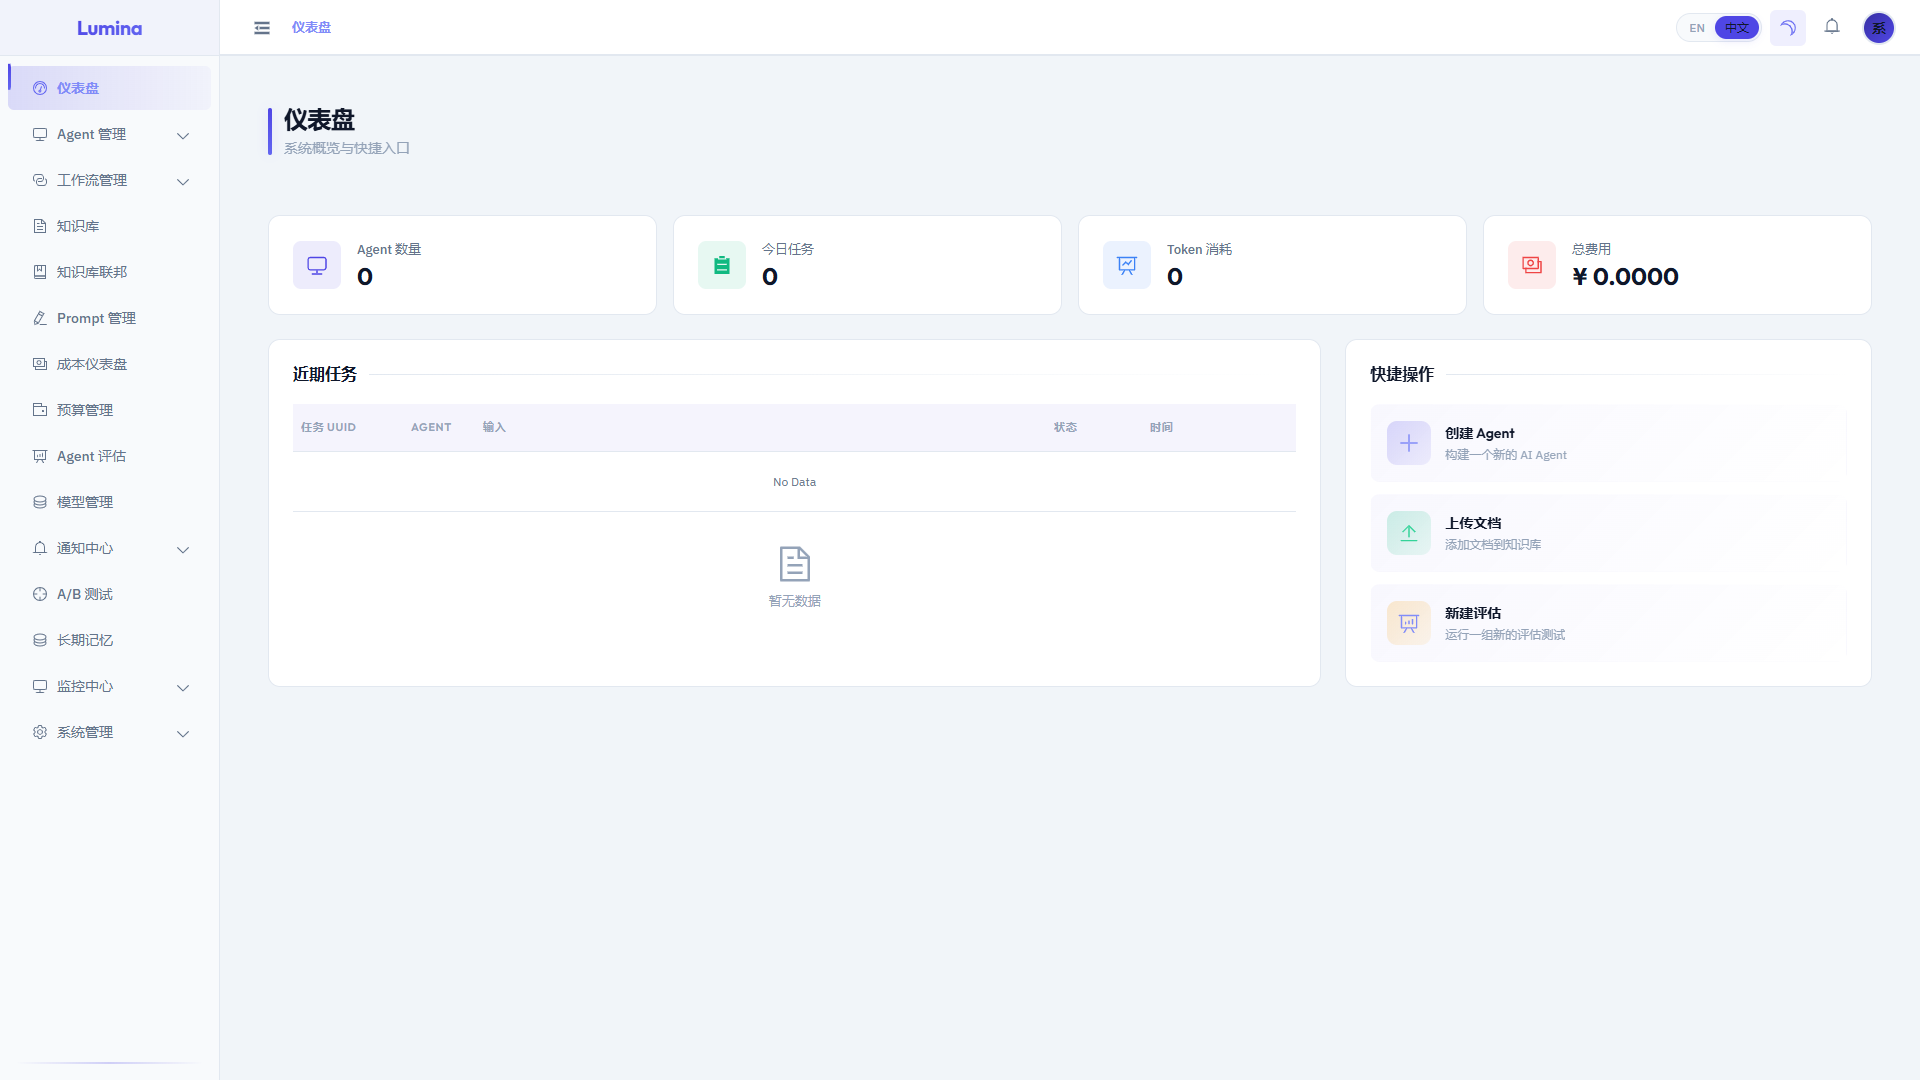
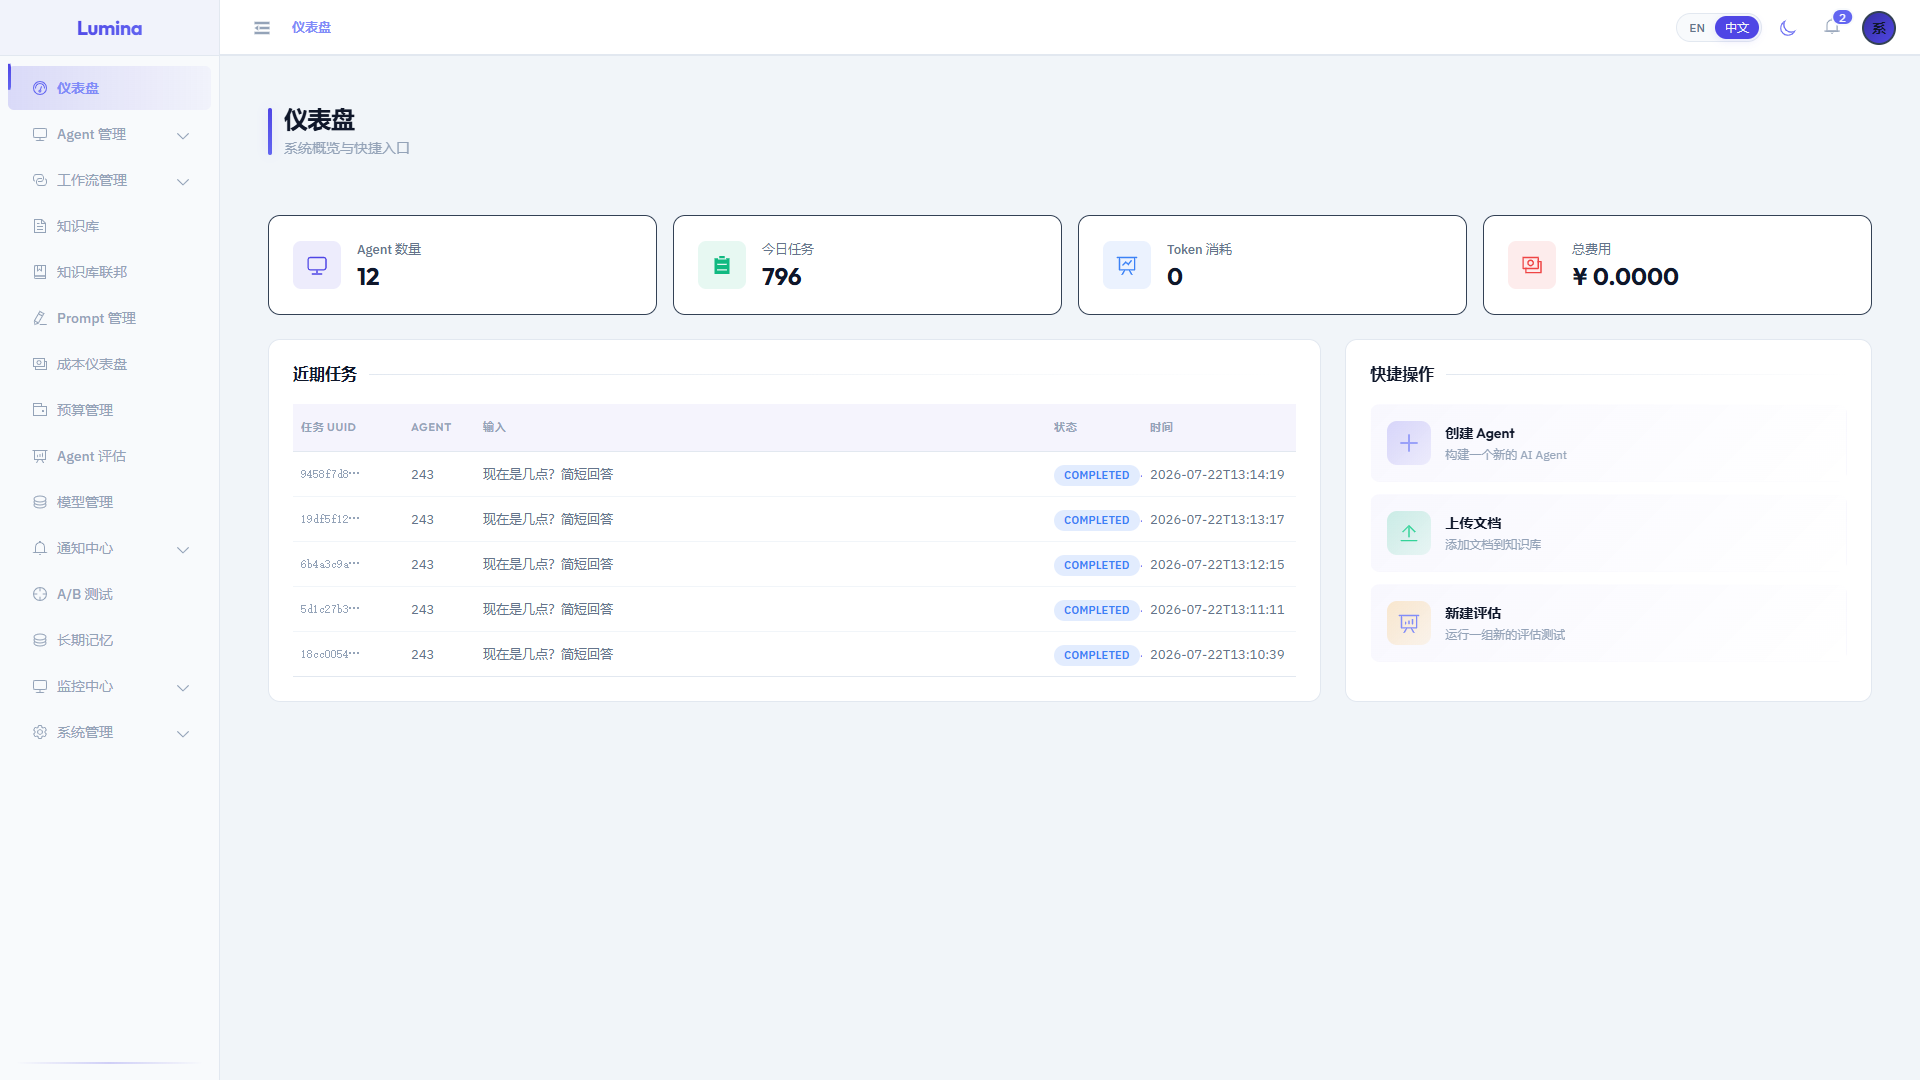
fix(examples): 修复截图——后端8080运行+灌入数据后截图，确保每页有数据无错误
## 根因修复
之前截图时后端启动在18080端口，但前端代理配置指向8080，
导致所有API请求失败、页面空数据+错误弹窗。

## 修复内容
- 在8080端口（匹配前端代理）启动后端
- 灌入完整演示数据后再截图（seed_demo_data.py）
- 截图前清除99+条历史通知避免干扰
- 确认Console 0 errors后截图
- 每页等待1.5s确保数据渲染完成

## seed_demo_data.py 改进
- HOST 改为从环境变量 LUMINA_HOST 读取（默认8080）

## 截图质量
- 16张1920x1080，全部含真实数据
- Agent列表：10个Agent含3个运维Agent
- 审计日志：有操作记录
- 触发器/Webhook/预算/评估/AB测试全部有数据
- Console 0 errors（无错误弹窗）

diff --git a/examples/ops-platform/scripts/seed_demo_data.py b/examples/ops-platform/scripts/seed_demo_data.py
@@ -7,7 +7,7 @@ import json
 import os
 import time
 
-HOST = "http://localhost:18080"
+HOST = os.environ.get("LUMINA_HOST", "http://localhost:8080")
 USER = "admin"
 PASS = "admin123"
 
